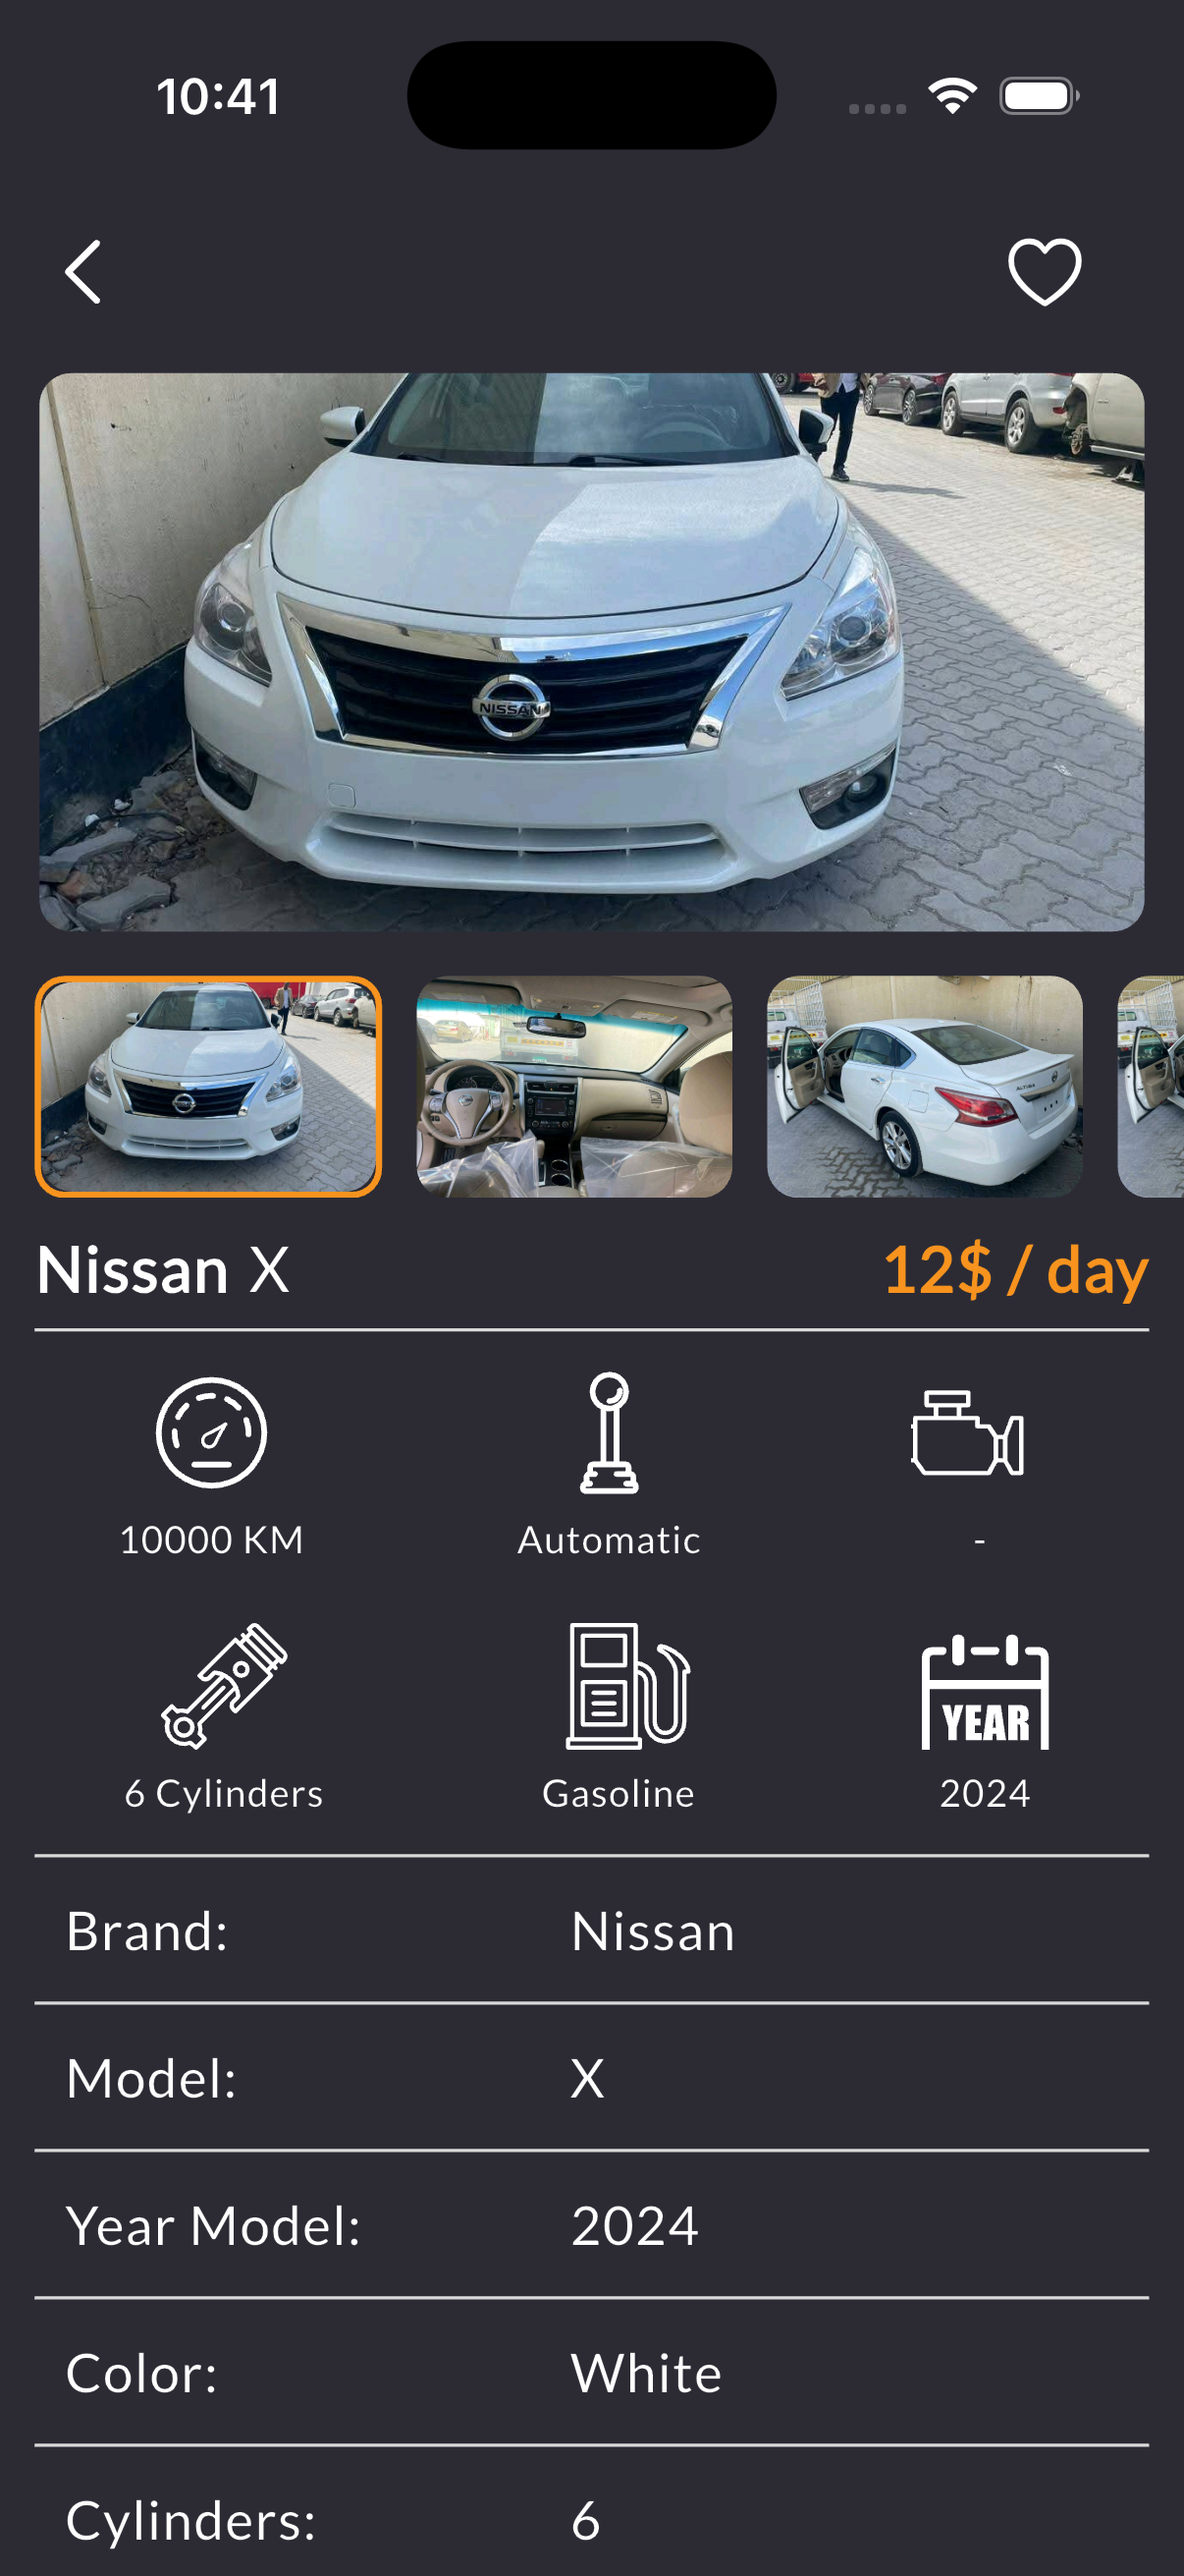
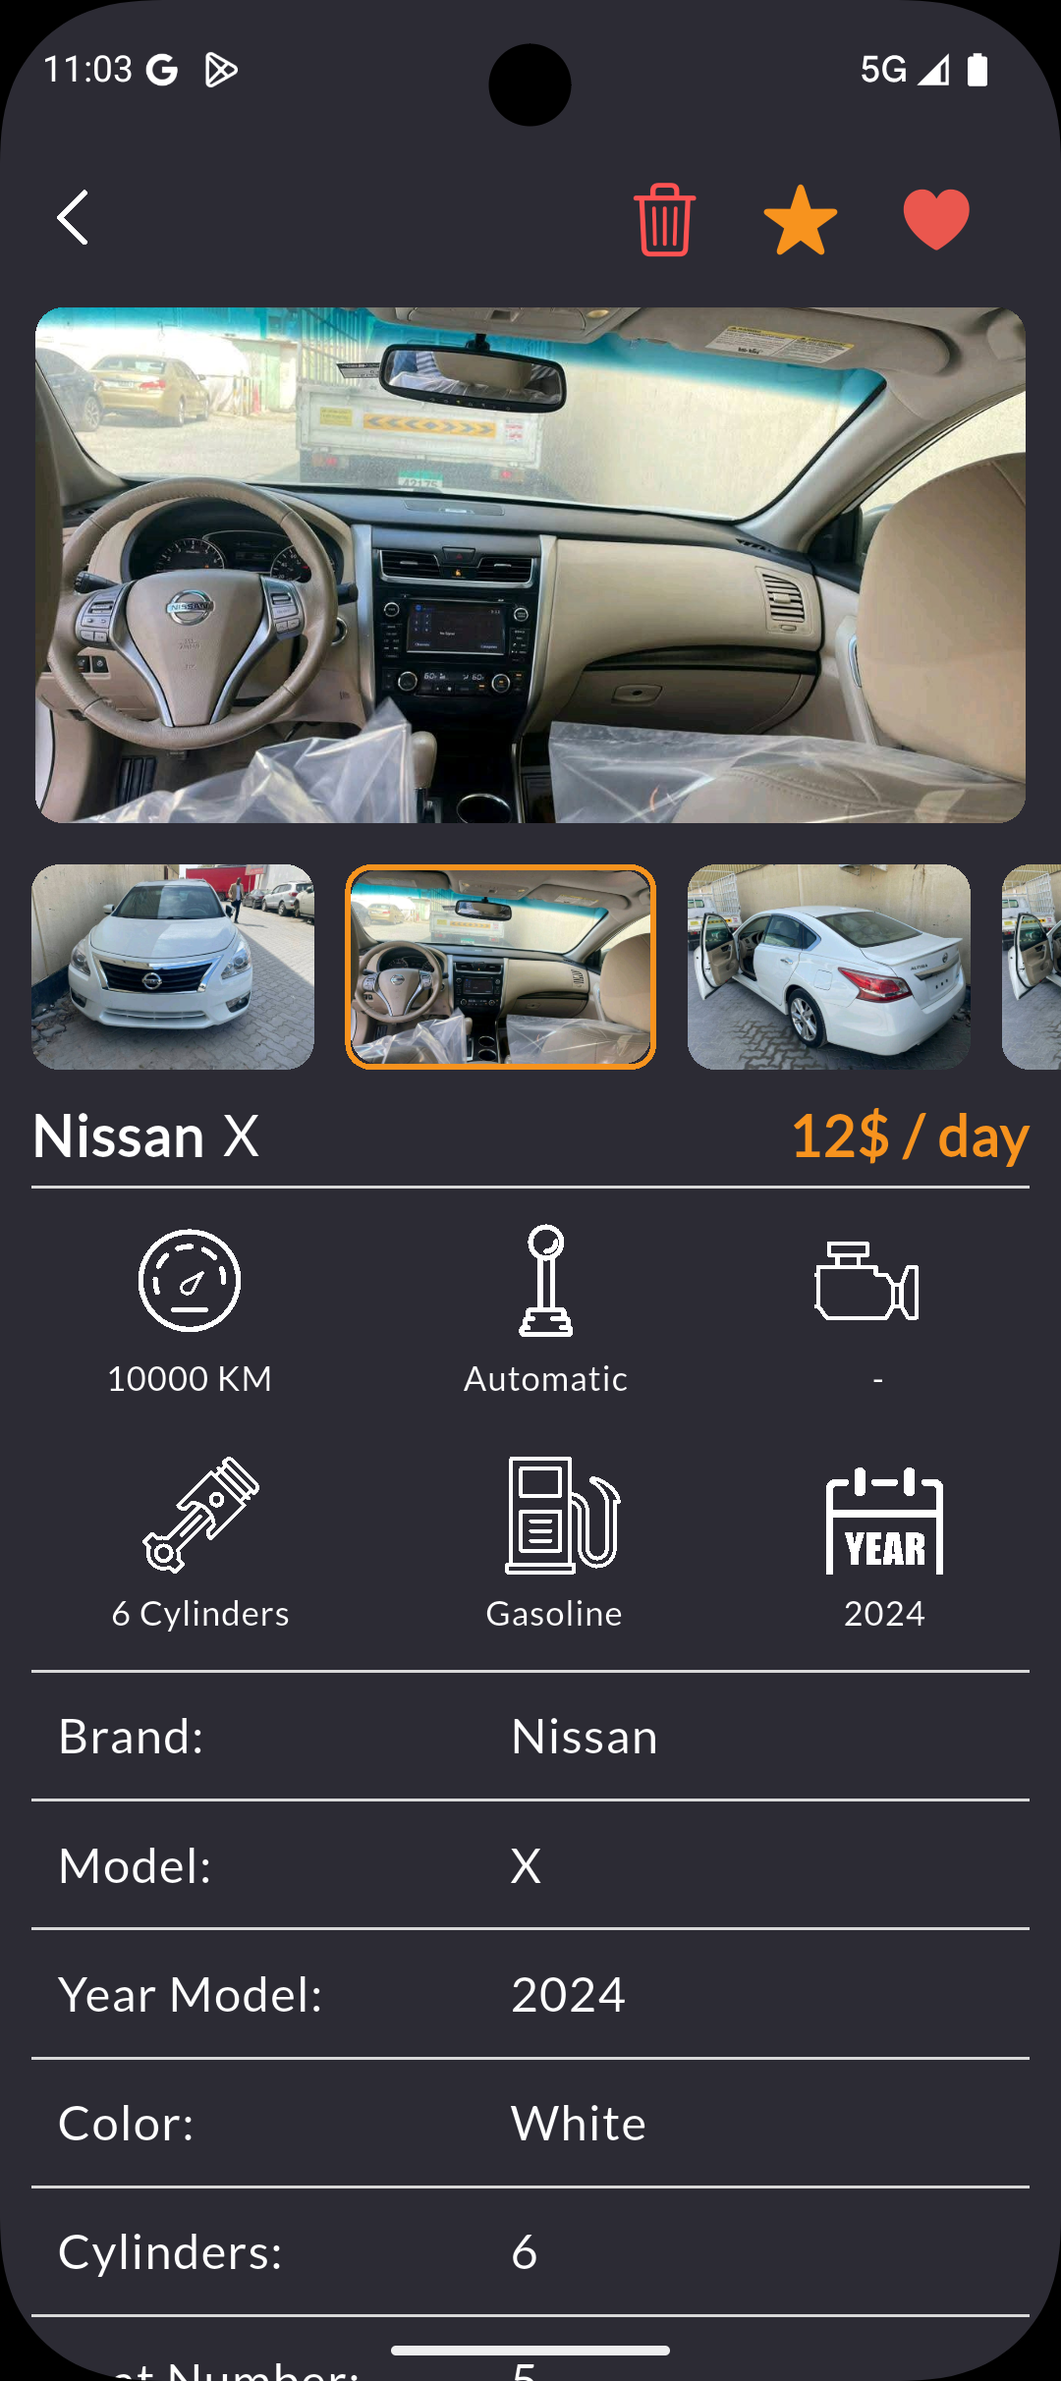
Enhance contact section with new portrait and button animations; update CSS for improved layout and visual effects

diff --git a/assets/css/home.css b/assets/css/home.css
@@ -166,7 +166,27 @@ body[data-page="home"]::before {
 .contact-section { display: grid; grid-template-columns: minmax(0, 1.25fr) minmax(18rem, 0.75fr); align-items: end; gap: clamp(3rem, 8vw, 7rem); margin-block-end: var(--space-10); padding: clamp(2rem, 6vw, 5rem); border: 1px solid var(--line); border-radius: var(--radius-xl); background: var(--surface-2); }
 .contact-copy h2 { max-width: 14ch; font-size: var(--text-2xl); }
 .contact-copy > p:last-child { max-width: 43rem; margin-block-start: 1.2rem; color: var(--muted); }
-.contact-actions { display: grid; gap: 1.3rem; }
+.contact-actions { display: grid; width: min(100%, 19rem); justify-items: start; gap: 1.3rem; }
+.contact-portrait { position: relative; width: clamp(8.5rem, 12vw, 10rem); height: clamp(8.5rem, 12vw, 10rem); justify-self: center; animation: contact-portrait-float 4.6s ease-in-out infinite; }
+.contact-portrait::before { position: absolute; inset: 0.35rem -0.35rem -0.35rem 0.35rem; border: 1px solid var(--accent); border-radius: 50%; content: ""; opacity: 0.45; animation: contact-portrait-ring 2.8s ease-out infinite; }
+.contact-portrait img { position: relative; width: 100%; height: 100%; object-fit: cover; object-position: center top; border: 0.3rem solid var(--surface-2); border-radius: 50%; box-shadow: 0 1rem 2.5rem color-mix(in srgb, var(--accent) 22%, transparent); }
+@keyframes contact-portrait-float { 0%, 100% { transform: translateY(0) rotate(-1deg); } 50% { transform: translateY(-0.55rem) rotate(1deg); } }
+@keyframes contact-portrait-ring { 0%, 100% { opacity: .45; transform: scale(1); } 55% { opacity: .08; transform: scale(1.09); } }
+.contact-actions > .button {
+  width: min(100%, 19rem);
+  min-height: 4.4rem;
+  justify-content: space-between;
+  padding-inline: 1.5rem;
+  border-radius: var(--radius-lg);
+  box-shadow: 0 1rem 2.4rem color-mix(in srgb, var(--accent) 28%, transparent);
+  font-size: 1.05rem;
+  animation: contact-cta-glow 3.2s ease-in-out infinite;
+}
+.contact-actions > .button i { display: grid; width: 2.15rem; height: 2.15rem; place-items: center; border-radius: 50%; background: color-mix(in srgb, white 16%, transparent); transition: transform var(--transition-fast); }
+.contact-actions > .button:hover { box-shadow: 0 1.35rem 3rem color-mix(in srgb, var(--accent) 38%, transparent); transform: translateY(-.2rem); }
+.contact-actions > .button:hover i { transform: translate(.2rem, -.2rem); }
+[dir="rtl"] .contact-actions > .button:hover i { transform: translate(-.2rem, -.2rem); }
+@keyframes contact-cta-glow { 0%, 100% { box-shadow: 0 1rem 2.4rem color-mix(in srgb, var(--accent) 22%, transparent); } 50% { box-shadow: 0 1.2rem 3rem color-mix(in srgb, var(--accent) 38%, transparent); } }
 .contact-links { display: flex; flex-wrap: wrap; gap: 0.5rem 1rem; }
 .contact-links a { color: var(--muted); font-size: 0.78rem; font-weight: 700; }
 .contact-links a:hover { color: var(--accent-ink); }
@@ -237,4 +257,5 @@ body[data-page="home"]::before {
 @media (prefers-reduced-motion: reduce) {
   .device--primary, .device--secondary { transform: none; }
   .project-logo--animated { animation: none; }
+  .contact-portrait, .contact-portrait::before, .contact-actions > .button { animation: none; }
 }

diff --git a/se.html b/se.html
@@ -28,7 +28,7 @@
   <link rel="stylesheet" href="https://cdnjs.cloudflare.com/ajax/libs/font-awesome/6.4.0/css/all.min.css" crossorigin="anonymous" referrerpolicy="no-referrer">
   <link rel="stylesheet" href="assets/css/tokens.css?v=20260827f">
   <link rel="stylesheet" href="assets/css/styles.css?v=20260827f">
-  <link rel="stylesheet" href="assets/css/home.css?v=20260827f">
+  <link rel="stylesheet" href="assets/css/home.css?v=20260827h">
   <script>document.documentElement.classList.add("js");</script>
   <script type="application/ld+json">
   {"@context":"https://schema.org","@type":"Person","name":"Mohamad Adib Tawil","url":"https://mohamad-adib-tawil.github.io/CV/se.html","image":"https://mohamad-adib-tawil.github.io/CV/assets/images/portfolio/ME_Profile.png","jobTitle":"Software Engineer and Flutter Developer","email":"mailto:mohamad.adib.tawil@gmail.com","telephone":"+963992688759","sameAs":["https://github.com/Mohamad-Adib-Tawil","https://www.linkedin.com/in/mohamad-adib-tawil-54024b314/"],"knowsAbout":["Software Engineering","Flutter","Dart","Clean Architecture","BLoC","Systems Analysis","Relational Databases","Realtime systems","Offline-first mobile applications"]}
@@ -135,7 +135,7 @@
 
     <section id="contact" class="section shell contact-section reveal" aria-labelledby="contactTitle">
       <div class="contact-copy"><p id="contactEyebrow" class="eyebrow">Start a conversation</p><h2 id="contactTitle">Building a serious mobile product? Let’s talk.</h2><p id="contactLead"></p></div>
-      <div class="contact-actions"><a id="contactEmail" class="button button--primary button--large" href="mailto:mohamad.adib.tawil@gmail.com">Email me <i class="fas fa-arrow-up-right-from-square" aria-hidden="true"></i></a><div class="contact-links"><a id="contactWhatsapp" href="https://wa.me/963992688759" target="_blank" rel="noopener noreferrer">WhatsApp</a><a id="contactLinkedin" href="https://www.linkedin.com/in/mohamad-adib-tawil-54024b314/" target="_blank" rel="noopener noreferrer">LinkedIn</a><a id="contactGithub" href="https://github.com/Mohamad-Adib-Tawil" target="_blank" rel="noopener noreferrer">GitHub</a><a id="contactPhone" href="tel:+963992688759">+963 992 688 759</a></div></div>
+      <div class="contact-actions"><div class="contact-portrait"><img src="assets/images/portfolio/ME_Profile.png" alt="Mohamad Adib Tawil" width="160" height="160" loading="lazy" decoding="async"></div><a id="contactEmail" class="button button--primary button--large" href="mailto:mohamad.adib.tawil@gmail.com">Email me <i class="fas fa-arrow-up-right-from-square" aria-hidden="true"></i></a><div class="contact-links"><a id="contactWhatsapp" href="https://wa.me/963992688759" target="_blank" rel="noopener noreferrer">WhatsApp</a><a id="contactLinkedin" href="https://www.linkedin.com/in/mohamad-adib-tawil-54024b314/" target="_blank" rel="noopener noreferrer">LinkedIn</a><a id="contactGithub" href="https://github.com/Mohamad-Adib-Tawil" target="_blank" rel="noopener noreferrer">GitHub</a><a id="contactPhone" href="tel:+963992688759">+963 992 688 759</a></div></div>
     </section>
   </main>
 

diff --git a/index.html b/index.html
@@ -28,7 +28,7 @@
   <link rel="stylesheet" href="https://cdnjs.cloudflare.com/ajax/libs/font-awesome/6.4.0/css/all.min.css" crossorigin="anonymous" referrerpolicy="no-referrer">
   <link rel="stylesheet" href="assets/css/tokens.css?v=20260827f">
   <link rel="stylesheet" href="assets/css/styles.css?v=20260827f">
-  <link rel="stylesheet" href="assets/css/home.css?v=20260827f">
+  <link rel="stylesheet" href="assets/css/home.css?v=20260827h">
   <script>document.documentElement.classList.add("js");</script>
   <script type="application/ld+json">
   {"@context":"https://schema.org","@type":"Person","name":"Mohamad Adib Tawil","url":"https://mohamad-adib-tawil.github.io/CV/","image":"https://mohamad-adib-tawil.github.io/CV/assets/images/portfolio/ME_Profile.png","jobTitle":"Flutter Developer and Mobile Application Engineer","email":"mailto:mohamad.adib.tawil@gmail.com","telephone":"+963992688759","sameAs":["https://github.com/Mohamad-Adib-Tawil","https://www.linkedin.com/in/mohamad-adib-tawil-54024b314/"],"knowsAbout":["Flutter","Dart","Clean Architecture","BLoC","Supabase","Firebase","Appwrite","Realtime systems","Offline-first mobile applications","On-device OCR"]}
@@ -135,7 +135,7 @@
 
     <section id="contact" class="section shell contact-section reveal" aria-labelledby="contactTitle">
       <div class="contact-copy"><p id="contactEyebrow" class="eyebrow">Start a conversation</p><h2 id="contactTitle">Building a serious mobile product? Let’s talk.</h2><p id="contactLead"></p></div>
-      <div class="contact-actions"><a id="contactEmail" class="button button--primary button--large" href="mailto:mohamad.adib.tawil@gmail.com">Email me <i class="fas fa-arrow-up-right-from-square" aria-hidden="true"></i></a><div class="contact-links"><a id="contactWhatsapp" href="https://wa.me/963992688759" target="_blank" rel="noopener noreferrer">WhatsApp</a><a id="contactLinkedin" href="https://www.linkedin.com/in/mohamad-adib-tawil-54024b314/" target="_blank" rel="noopener noreferrer">LinkedIn</a><a id="contactGithub" href="https://github.com/Mohamad-Adib-Tawil" target="_blank" rel="noopener noreferrer">GitHub</a><a id="contactPhone" href="tel:+963992688759">+963 992 688 759</a></div></div>
+      <div class="contact-actions"><div class="contact-portrait"><img src="assets/images/portfolio/ME_Profile.png" alt="Mohamad Adib Tawil" width="160" height="160" loading="lazy" decoding="async"></div><a id="contactEmail" class="button button--primary button--large" href="mailto:mohamad.adib.tawil@gmail.com">Email me <i class="fas fa-arrow-up-right-from-square" aria-hidden="true"></i></a><div class="contact-links"><a id="contactWhatsapp" href="https://wa.me/963992688759" target="_blank" rel="noopener noreferrer">WhatsApp</a><a id="contactLinkedin" href="https://www.linkedin.com/in/mohamad-adib-tawil-54024b314/" target="_blank" rel="noopener noreferrer">LinkedIn</a><a id="contactGithub" href="https://github.com/Mohamad-Adib-Tawil" target="_blank" rel="noopener noreferrer">GitHub</a><a id="contactPhone" href="tel:+963992688759">+963 992 688 759</a></div></div>
     </section>
   </main>
 
